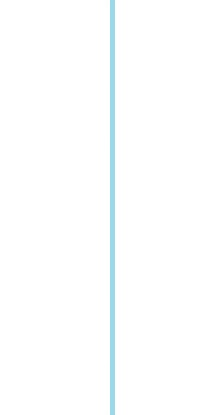
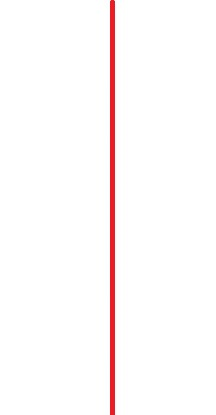
UI changes-color and style changes

Changed region(s): [[0.5, 0.0, 0.5556, 1.0]]

diff --git a/UI/WebContent/app/components/twitterinsights/twitterinsights.view.html b/UI/WebContent/app/components/twitterinsights/twitterinsights.view.html
@@ -12,7 +12,7 @@
     </div>
 
 	<a href="#/app/singleview" ng-click="loadDashboard()"
-		style="font-size: 14px; font: Roboto Light; color: #0F64BC;" translate="{{'dashboard_title'}}"></a> <span
+		style="font-size: 14px; font: Roboto Light; color: #be3838;" translate="{{'dashboard_title'}}"></a> <span
 		style="font-size: 14px; font: Roboto; color: #222222; padding-left: 15px; padding-right: 15px;">
 		></span> <style="font-size: 14px; font: Roboto Light; color: #222222" translate="{{'twitter_insights'}}"></style>
 
@@ -102,7 +102,7 @@
 			<div class="col-sm-4 col-md-4 col-lg-4">
 
 				<div class="col-lg-12">
-				<img height="25px" width="30px" src='img/Dashboardassets/twitter.png' alt='' style="margin-left: 20px"/><label style="margin-top: 5px;color: #23b7e5;">Twitter Sentiments</label>
+				<img height="25px" width="30px" src='img/Dashboardassets/twitter.png' alt='' style="margin-left: 20px"/><label style="margin-top: 5px;color: #be3838;">Twitter Sentiments</label>
 				</div>
 				<div class="col-sm-11 col-md-11 col-lg-11" style="width:400px">
 

diff --git a/UI/WebContent/app/js/bootstrap/css/bootstrap.css b/UI/WebContent/app/js/bootstrap/css/bootstrap.css
@@ -3118,8 +3118,8 @@ fieldset[disabled] .btn-default.focus {
 }
 .btn-primary {
   color: #fff;
-  background-color: #337ab7;
-  border-color: #2e6da4;
+  background-color: #be3838;
+  border-color: #be3838;
 }
 .btn-primary:focus,
 .btn-primary.focus {
@@ -3129,8 +3129,8 @@ fieldset[disabled] .btn-default.focus {
 }
 .btn-primary:hover {
   color: #fff;
-  background-color: #286090;
-  border-color: #204d74;
+  background-color: #be3838;
+  border-color: #be3838;
 }
 .btn-primary:active,
 .btn-primary.active,
@@ -3149,8 +3149,8 @@ fieldset[disabled] .btn-default.focus {
 .btn-primary.active.focus,
 .open > .dropdown-toggle.btn-primary.focus {
   color: #fff;
-  background-color: #204d74;
-  border-color: #122b40;
+  background-color: #be3838;
+  border-color: #be3838;
 }
 .btn-primary:active,
 .btn-primary.active,

diff --git a/UI/WebContent/app/components/login/login.view.html b/UI/WebContent/app/components/login/login.view.html
@@ -15,8 +15,8 @@
  
   
  <div style="background:0A427D !important" class="jumbotron">
- <img src="img/Dashboardassets/logo.png" alt="App Logo" class="img-responsive btnPendingGoals"  style="padding-left: 20px;" />
-<strong style="font-size: 14px; font: Roboto Light; color: #FEFEFE; display:inline;" translate="{{'app_name'}}"></strong>
+ <img src="img/logo_miele.png" alt="App Logo" class="img-responsive btnPendingGoals"  style="padding-left: 20px;" />
+<!-- <strong style="font-size: 14px; font: Roboto Light; color: #FEFEFE; display:inline;" translate="{{'app_name'}}"></strong> -->
   
   <ul class="nav navbar-nav pull-right" style="">
  <!-- <select name="" ng-model="language.selected" ng-change="changeLanguage()" style="margin-top: 18px" dropdown class="dropdown">

diff --git a/UI/WebContent/app/components/notification/notification.view.html b/UI/WebContent/app/components/notification/notification.view.html
@@ -12,12 +12,12 @@
 
 	<div id="dashboardNav" ng-controller="MyviewController">
 		<a ng-click="getUrl()"
-			style="font-size: 14px; font: Roboto Light; color: #0F64BC;">Washing
+			style="font-size: 14px; font: Roboto Light; color: #be3838;">Washing
 			Machine Monitor System </a> <span
 			style="font-size: 14px; font: Roboto; color: #222222; padding-left: 15px; padding-right: 15px;">
 			></span>
 			<a ng-click="loadTwitterInsights()" ng-if="showTwitterInsightsLink"
-			style="font-size: 14px; font: Roboto Light; color: #0F64BC;">
+			style="font-size: 14px; font: Roboto Light; color: #be3838;">
 			Twitter Insights</a>
 			<span ng-if="showTwitterInsightsLink"
 			style="font-size: 14px; font: Roboto; color: #222222; padding-left: 15px; padding-right: 15px;">

diff --git a/UI/WebContent/app/components/dashboard/dashboard_mktmgr.view.html b/UI/WebContent/app/components/dashboard/dashboard_mktmgr.view.html
@@ -15,7 +15,7 @@
 	<div class="pull-right">{{'app_dashboard_last_updated_text' | translate}} {{currentDate}}</div>
 
 	 <div  id="dashboardNav" ng-controller="MyviewController"> 
-		<a style="font-size: 14px; font: Roboto Light; color: #0F64BC;" ng-click="getUrl()">{{'dashboard_title' | translate}}</a> 
+		<a style="font-size: 14px; font: Roboto Light; color: #be3838" ng-click="getUrl()">{{'dashboard_title' | translate}}</a> 
          <span style="font-size: 14px; font: Roboto; color: #222222; padding-left: 15px; padding-right: 15px;">  > </span>
 		<span> {{'dashboard' | translate}} </span>
 	 </div>

diff --git a/UI/WebContent/app/components/reports/reports.view.html b/UI/WebContent/app/components/reports/reports.view.html
@@ -8,7 +8,7 @@
 	<div class="pull-right">{{'app_dashboard_last_updated_text' | translate}} {{currentDate}}</div>
 
 	<div  id="dashboardNav" ng-controller="MyviewController"> 
-		<a style="font-size: 14px; font: Roboto Light; color: #0F64BC;" ng-click="getUrl()">{{'dashboard_title' | translate}}</a> 
+		<a style="font-size: 14px; font: Roboto Light; color: #be3838;" ng-click="getUrl()">{{'dashboard_title' | translate}}</a> 
          <span style="font-size: 14px; font: Roboto; color: #222222; padding-left: 15px; padding-right: 15px;">  > </span>
 		<span> {{'reports' | translate}} </span>
 	 </div>

diff --git a/UI/WebContent/css/app.css b/UI/WebContent/css/app.css
@@ -7681,7 +7681,7 @@ body {
 .sidebar {
   height: 100%;
   padding-bottom: 20px;
-  background-color: #141414;
+  background-color: #29211f;
   overflow-x: hidden;
   overflow-y: hidden;
   -webkit-overflow-scrolling: touch;
@@ -11144,6 +11144,7 @@ body {
 .mv-lg {
   margin-top: 15px !important;
   margin-bottom: 15px !important;
+  color: #be3838;
 }
 .mh-lg {
   margin-left: 15px !important;
@@ -12288,7 +12289,7 @@ display : block;
 	padding : 6px;
 	max-width: 500px;
 	margin-left: 22px !important padding-left:0px;
-	color: #5d9cec;
+	color: #be3838;
 	font-size: 17px;
 }
 

diff --git a/UI/WebContent/app/components/topnavbar/topnavbar.view.html b/UI/WebContent/app/components/topnavbar/topnavbar.view.html
@@ -12,11 +12,11 @@
           		<div class="navbar-brand" >
 						<div class="logodive" style="width:230px; margin-left: 14px; margin-top: 9px">
 							<div style="float: left">
-							<img src="img/logo.png" alt="App Logo" class="img-responsive logo"  />
+							<img src="img/logo_miele.png" alt="App Logo" class="img-responsive logo"  />
 							</div>
-							<div style="float: left">
+							<!-- <div style="float: left">
 								<strong class="captionfont" translate="{{'app_name'}}"></strong>
-							</div>
+							</div> -->
 						</div>
 				</div>
 

diff --git a/UI/WebContent/app/components/dashboard/dashboard_engmgr.view.html b/UI/WebContent/app/components/dashboard/dashboard_engmgr.view.html
@@ -19,7 +19,7 @@
    </div>
 
 	<div  id="dashboardNav" ng-controller="MyviewController"> 
-		<a style="font-size: 14px; font: Roboto Light; color: #0F64BC;" ng-click="getUrl()">{{'dashboard_title' | translate}}</a> 
+		<a style="font-size: 14px; font: Roboto Light; color: #be3838;" ng-click="getUrl()">{{'dashboard_title' | translate}}</a> 
          <span style="font-size: 14px; font: Roboto; color: #222222; padding-left: 15px; padding-right: 15px;">  > </span>
 		<span> {{'dashboard' | translate}} </span>
 	 </div>

diff --git a/UI/WebContent/css/dashboard.css b/UI/WebContent/css/dashboard.css
@@ -40,7 +40,7 @@
 
 #applyFilter {
 	min-width: 114px;
-	background-color: #4C74E2;
+	background-color: #be3838;
 	height: 34px;
 	font-family: Roboto;
 	font-size: 15px;
@@ -65,11 +65,11 @@
 
 #formarray {
 	height: 26px;
-	background: #91aed3;
+	background: #be3838;
 	padding: 4px;
 	margin: 1px;
 	display: inline-block;
-	color: fff;
+	color: #fff;
 	border-radius: 2px !important;
 	font-size: 11pt;
 }

diff --git a/UI/WebContent/css/sidebar.css b/UI/WebContent/css/sidebar.css
@@ -10,13 +10,13 @@
      }
 
 	.leftbar-icon:hover {
-    	border: 2px solid #4A88C9;
+    	border: 2px solid #be3838;
         color: #fff;
     }
 
     .sidebarItemActive {
-         background-color: #4A88C9;
-        color: #fff;
+         background-color: #4a4747;
+        color: #ff3f15;
     }
 
 .sidebarItemActive::after {    display: block;

diff --git a/UI/WebContent/css/Login.css b/UI/WebContent/css/Login.css
@@ -26,7 +26,7 @@ h2 {
 	color: inherit;
 	display: inline-block;
 	width: 100%;
-	background-color: #0A427D
+	background-color: #e60000;
 }
 
 .help-block {
@@ -39,7 +39,7 @@ h2 {
 
 .btn {
 	border-radius: 0;
-	background: #0A427D;
+	background: #be3838;
 	color: #ffffff;
 	float: right;
 }
